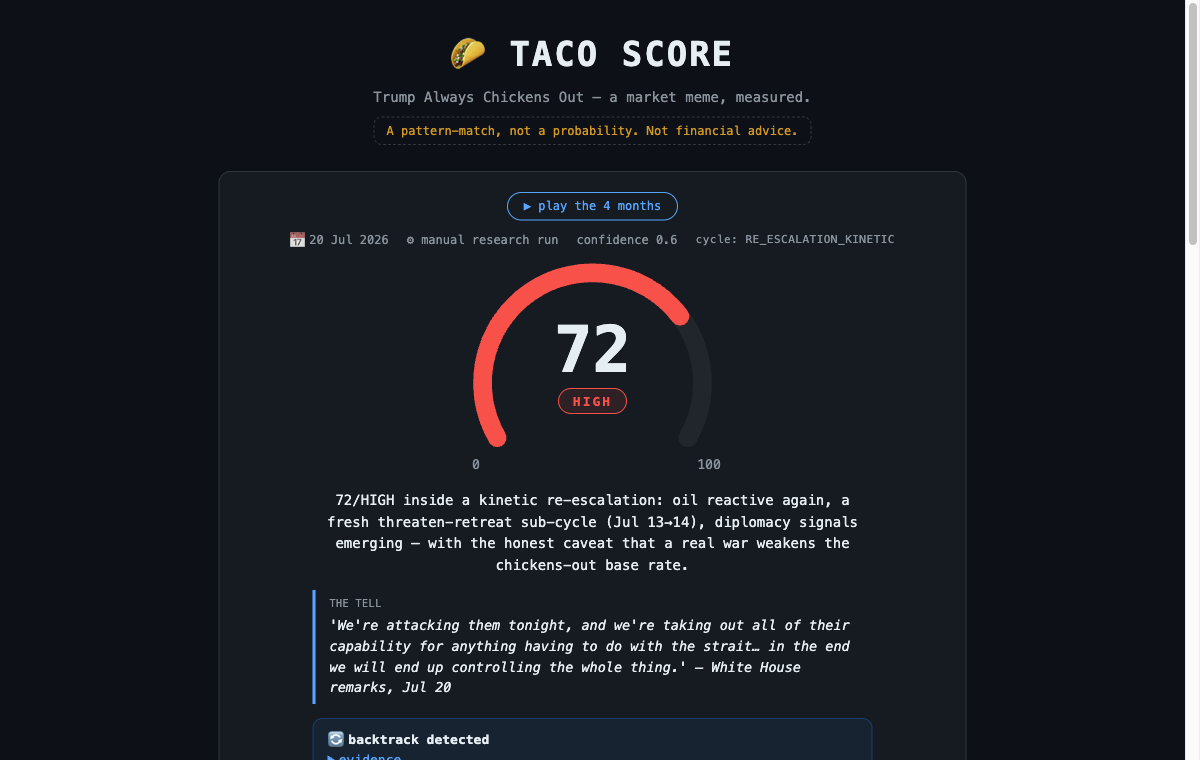
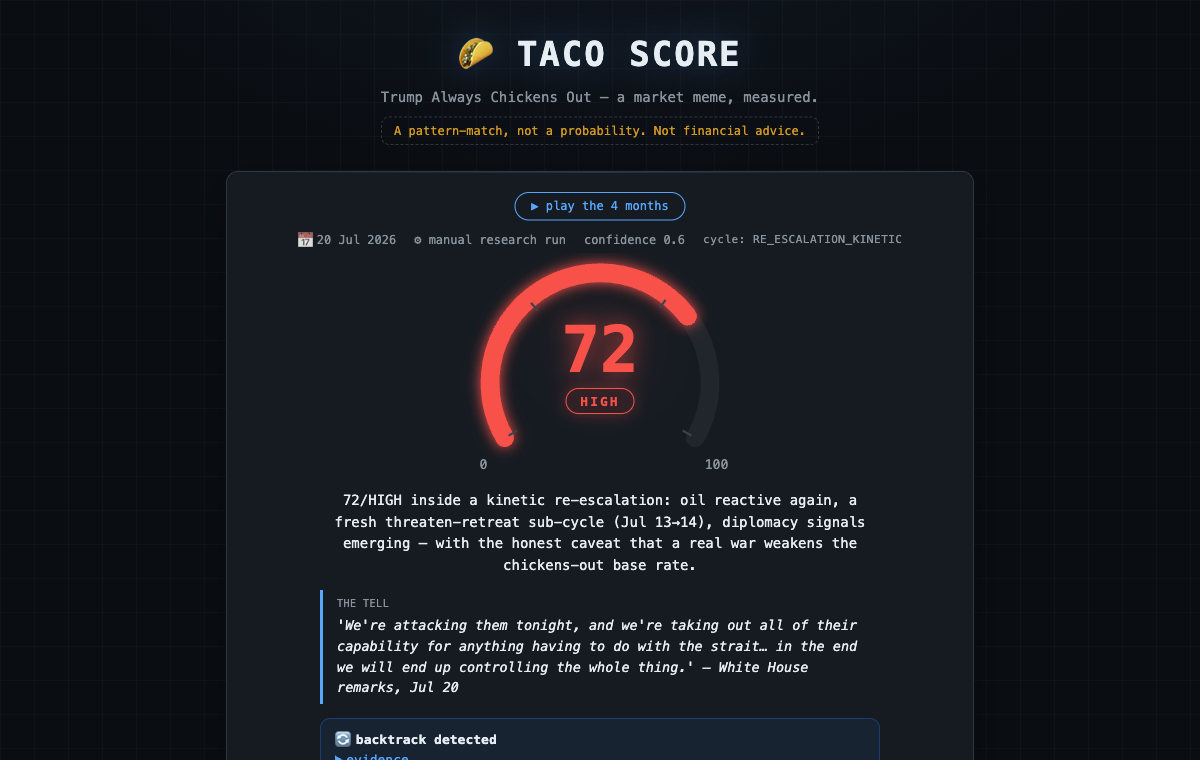
design: neon terminal pass — level-colored glow (gauge/score/chip), gauge ticks, smooth curve with area fade, pulsing selection ring, grid+vignette backdrop, EXTREME pulse; reduced-motion + print safe

diff --git a/index.html b/index.html
@@ -15,7 +15,13 @@
   --low:#3fb950; --med:#d29922; --high:#f85149; --extreme:#e879f9; --accent:#58a6ff;
 }
 *{box-sizing:border-box; margin:0; padding:0}
-html{background:var(--bg)}
+html{background:#0a0d12}
+body::before{content:""; position:fixed; inset:0; z-index:-1;
+  background:
+    radial-gradient(900px 520px at 50% -140px, rgba(88,166,255,.08), transparent 62%),
+    linear-gradient(rgba(255,255,255,.022) 1px, transparent 1px),
+    linear-gradient(90deg, rgba(255,255,255,.022) 1px, transparent 1px);
+  background-size:auto, 34px 34px, 34px 34px}
 body{
   font-family:ui-monospace,SFMono-Regular,Menlo,Consolas,"Liberation Mono",monospace;
   color:var(--text); max-width:780px; margin:0 auto; padding:28px 16px 60px;
@@ -24,12 +30,14 @@ body{
 a{color:var(--accent); text-decoration:none}
 a:hover{text-decoration:underline}
 header{text-align:center; margin-bottom:26px}
-h1{font-size:34px; letter-spacing:2px; margin-bottom:6px}
+h1{font-size:34px; letter-spacing:2px; margin-bottom:6px; text-shadow:0 0 34px rgba(88,166,255,.28)}
 .tagline{color:var(--dim)}
 .caveat{margin-top:8px; font-size:12px; color:var(--med);
   border:1px dashed var(--border); border-radius:8px; display:inline-block; padding:4px 12px}
 section{background:var(--panel); border:1px solid var(--border); border-radius:12px;
-  padding:20px; margin-bottom:18px}
+  padding:20px; margin-bottom:18px; position:relative; box-shadow:0 14px 34px rgba(0,0,0,.35)}
+section::after{content:""; position:absolute; top:0; left:14px; right:14px; height:1px;
+  background:linear-gradient(90deg, transparent, #58a6ff30, transparent); pointer-events:none}
 h2{font-size:13px; text-transform:uppercase; letter-spacing:1.5px; color:var(--dim);
   margin-bottom:14px}
 .reading-head{display:flex; flex-wrap:wrap; gap:8px 18px; justify-content:center;
@@ -89,7 +97,17 @@ footer{text-align:center; color:var(--dim); font-size:12px; margin-top:26px}
 .playrow{text-align:center; margin-bottom:10px}
 #play-btn{background:none; border:1px solid var(--accent); color:var(--accent);
   border-radius:999px; padding:4px 16px; font:inherit; font-size:12px; cursor:pointer}
-#play-btn:hover{background:#58a6ff22}
+#play-btn:hover{background:#58a6ff22; box-shadow:0 0 16px #58a6ff44}
+.chip.extreme{animation:chipPulse 1.6s ease-in-out infinite}
+@keyframes chipPulse{50%{box-shadow:0 0 30px #e879f9aa}}
+.pulse{transform-box:fill-box; transform-origin:center; pointer-events:none;
+  animation:ringPulse 1.8s ease-out infinite}
+@keyframes ringPulse{0%{transform:scale(.5); opacity:.9}
+  80%{transform:scale(2.1); opacity:0} 100%{transform:scale(2.1); opacity:0}}
+@media (prefers-reduced-motion:reduce){
+  .pulse,.chip.extreme{animation:none}
+  #g-value,.bar>div,#r-headline,#r-quote,#r-backtrack,#c-list,#analyst{transition:none}
+}
 #r-cycle{font-size:11px; letter-spacing:.5px}
 .hit:focus-visible{outline:2px solid var(--accent); outline-offset:2px}
 #r-headline,#r-quote,#r-backtrack,#c-list,#analyst{transition:opacity .18s ease}
@@ -97,6 +115,8 @@ footer{text-align:center; color:var(--dim); font-size:12px; margin-top:26px}
   :root{--bg:#fff; --panel:#fff; --text:#111; --dim:#555; --border:#bbb}
   body{max-width:100%}
   .kbd-hint,.playrow{display:none}
+  body::before{display:none}
+  *{text-shadow:none!important; box-shadow:none!important; animation:none!important}
 }
 @media (max-width:580px){
   .anno{display:none}
@@ -120,8 +140,14 @@ footer{text-align:center; color:var(--dim); font-size:12px; margin-top:26px}
     </div>
     <div class="gauge-wrap">
       <svg id="gauge" viewBox="0 0 300 200" role="img" aria-label="TACO score gauge">
+        <defs>
+          <filter id="glow" x="-40%" y="-40%" width="180%" height="180%">
+            <feGaussianBlur stdDeviation="6" result="b"/>
+            <feMerge><feMergeNode in="b"/><feMergeNode in="SourceGraphic"/></feMerge>
+          </filter>
+        </defs>
         <path id="g-track" fill="none" stroke="#21262d" stroke-width="17" stroke-linecap="round"/>
-        <path id="g-value" fill="none" stroke="#3fb950" stroke-width="17" stroke-linecap="round" pathLength="100"/>
+        <path id="g-value" fill="none" stroke="#3fb950" stroke-width="17" stroke-linecap="round" pathLength="100" filter="url(#glow)"/>
         <text x="44" y="196" fill="#8b949e" font-size="12" text-anchor="middle">0</text>
         <text x="256" y="196" fill="#8b949e" font-size="12" text-anchor="middle">100</text>
       </svg>
@@ -230,6 +256,15 @@ const gv = document.getElementById("g-value");
 gv.setAttribute("d", gauge);
 gv.style.strokeDasharray = "100";
 gv.style.strokeDashoffset = "100";
+[0,33,66,100].forEach(v=>{
+  const a = GA0 + (GA1-GA0)*v/100;
+  const [tx1,ty1] = polar(150,118,87,a), [tx2,ty2] = polar(150,118,96,a);
+  const t = document.createElementNS("http://www.w3.org/2000/svg","line");
+  t.setAttribute("x1",tx1.toFixed(1)); t.setAttribute("y1",ty1.toFixed(1));
+  t.setAttribute("x2",tx2.toFixed(1)); t.setAttribute("y2",ty2.toFixed(1));
+  t.setAttribute("stroke","#3a4150"); t.setAttribute("stroke-width","2");
+  document.getElementById("gauge").appendChild(t);
+});
 
 /* ---------- chart ---------- */
 const W=720, H=300, ML=36, MR=16, MT=34, MB=36;
@@ -260,9 +295,27 @@ const chart = document.getElementById("chart");
   el("line",{x1:x(d),x2:x(d),y1:MT,y2:H-MB,stroke:"#21262d"},chart);
   el("text",{x:x(d)+4,y:H-MB+16,fill:"#8b949e","font-size":11},chart).textContent=l+" ’26";
 });
-// linea
-el("polyline",{points:R.map(r=>`${x(r.date).toFixed(1)},${y(r.score).toFixed(1)}`).join(" "),
-  fill:"none",stroke:"#7d8590",opacity:.55,"stroke-width":1.6},chart);
+// curva smooth + area sfumata sotto
+const defsC = el("defs",{},chart);
+const grad = el("linearGradient",{id:"areaGrad",x1:0,y1:0,x2:0,y2:1},defsC);
+el("stop",{offset:"0%","stop-color":"#58a6ff","stop-opacity":.16},grad);
+el("stop",{offset:"100%","stop-color":"#58a6ff","stop-opacity":0},grad);
+function smoothPath(P){
+  if (P.length < 3) return "M " + P.map(q=>q[0].toFixed(1)+" "+q[1].toFixed(1)).join(" L ");
+  let d = `M ${P[0][0].toFixed(1)} ${P[0][1].toFixed(1)}`;
+  for (let i=0; i<P.length-1; i++){
+    const p0=P[Math.max(0,i-1)], p1=P[i], p2=P[i+1], p3=P[Math.min(P.length-1,i+2)];
+    const c1=[p1[0]+(p2[0]-p0[0])/6, p1[1]+(p2[1]-p0[1])/6];
+    const c2=[p2[0]-(p3[0]-p1[0])/6, p2[1]-(p3[1]-p1[1])/6];
+    d += ` C ${c1[0].toFixed(1)} ${c1[1].toFixed(1)}, ${c2[0].toFixed(1)} ${c2[1].toFixed(1)}, ${p2[0].toFixed(1)} ${p2[1].toFixed(1)}`;
+  }
+  return d;
+}
+const P = R.map(r=>[x(r.date), y(r.score)]);
+const dLine = smoothPath(P);
+el("path",{d:`${dLine} L ${P[P.length-1][0].toFixed(1)} ${y(0).toFixed(1)} L ${P[0][0].toFixed(1)} ${y(0).toFixed(1)} Z`,
+  fill:"url(#areaGrad)", stroke:"none"},chart);
+el("path",{d:dLine, fill:"none", stroke:"#7d8590", opacity:.6, "stroke-width":1.6},chart);
 // annotazioni (nascoste su mobile via CSS)
 function anno(date, score, dx, dy, lines, anchor){
   const g = el("g",{class:"anno"},chart);
@@ -288,6 +341,7 @@ R.forEach((r,i)=>{
   hit.addEventListener("keydown",e=>{ if(e.key==="Enter"||e.key===" "){ e.preventDefault(); stopPlay(); select(i); } });
   el("title",{},hit).textContent=`${r.date} — ${r.score} ${r.level}`;
 });
+const selPulse = el("circle",{r:9, fill:"none", stroke:"#e6edf3", "stroke-width":1.2, class:"pulse"},chart);
 
 /* ---------- render ---------- */
 const $ = id => document.getElementById(id);
@@ -320,10 +374,17 @@ function select(i, pushHash=true){
   gv.style.strokeDashoffset = String(100 - r.score);
   gv.style.stroke = col;
   countUp(prev, r.score);
+  $("r-score").style.color = col;
+  $("r-score").style.textShadow = `0 0 22px ${col}aa, 0 0 64px ${col}44`;
   const chip = $("r-level");
   chip.textContent = r.level + (r.level_note ? " †" : "");
   chip.title = r.level_note || "";
   chip.style.color = col; chip.style.borderColor = col; chip.style.background = col+"1a";
+  chip.style.boxShadow = `0 0 16px ${col}55`;
+  chip.classList.toggle("extreme", r.level === "EXTREME");
+  selPulse.setAttribute("cx", x(r.date).toFixed(1));
+  selPulse.setAttribute("cy", y(r.score).toFixed(1));
+  selPulse.setAttribute("stroke", col);
   // meta
   $("r-date").textContent = "📅 " + fmtDate(r.date) + (r.date_source==="filename" ? " (from filename)" : "");
   $("r-source").textContent = "⚙ " + (SOURCE_LABEL[r.source]||r.source);